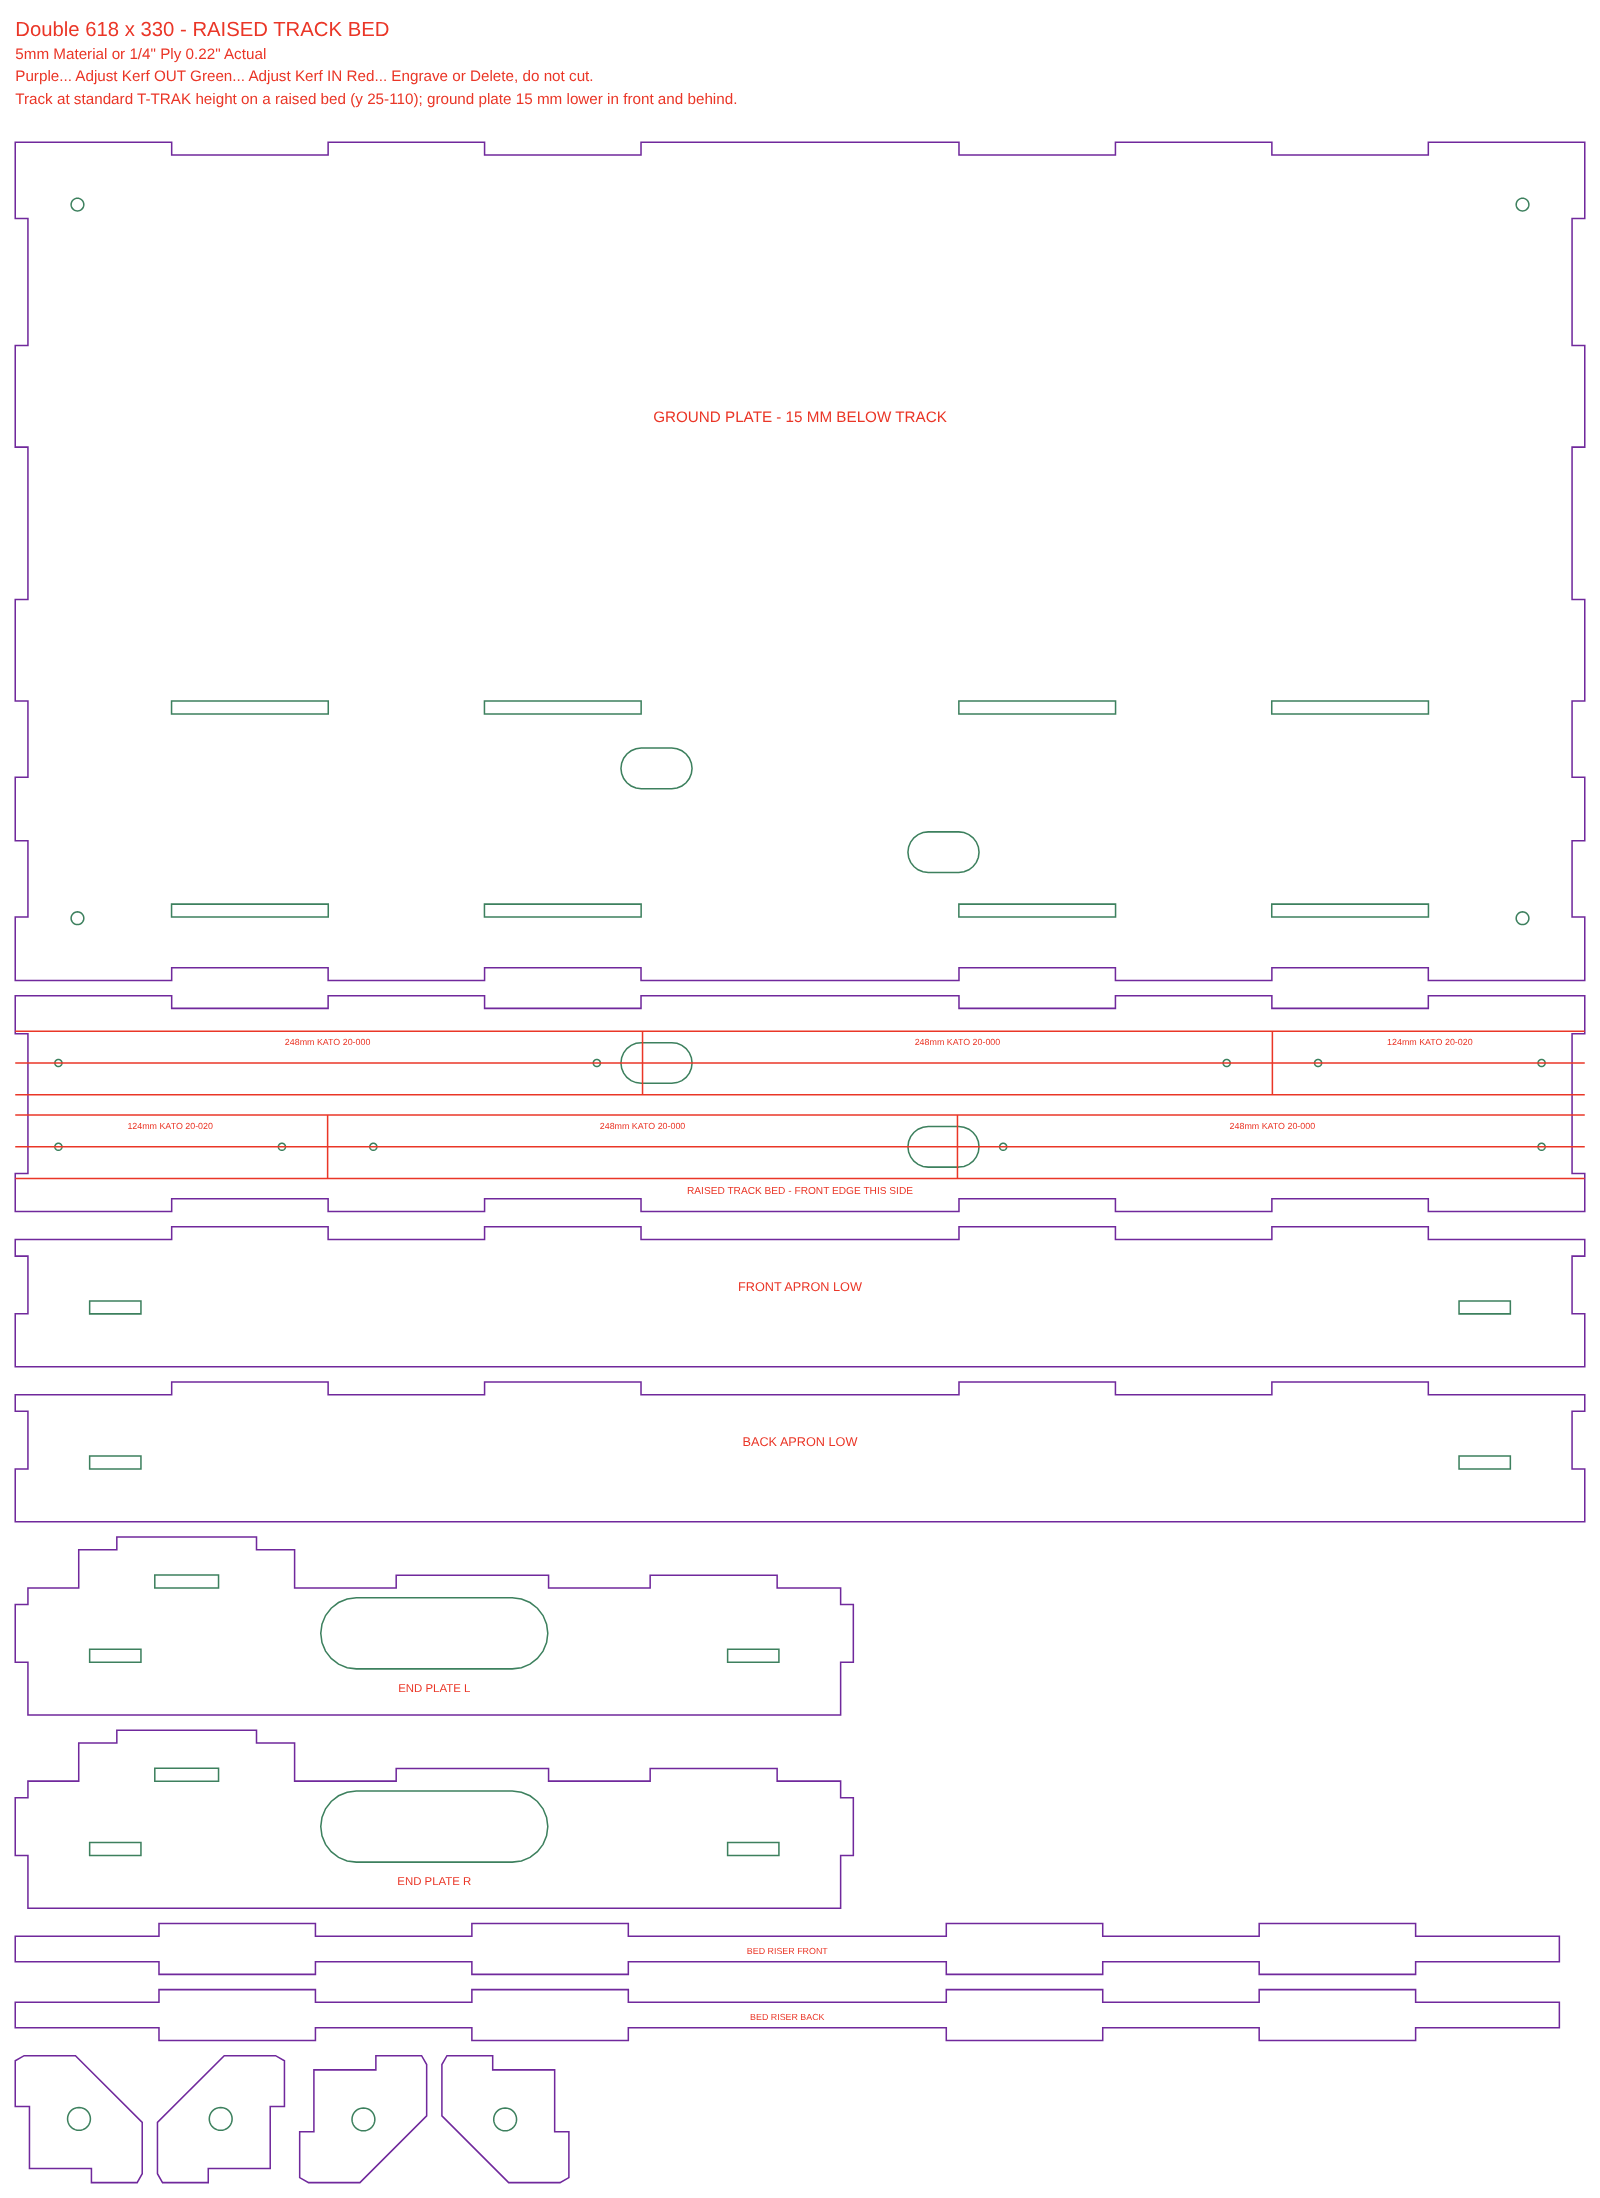
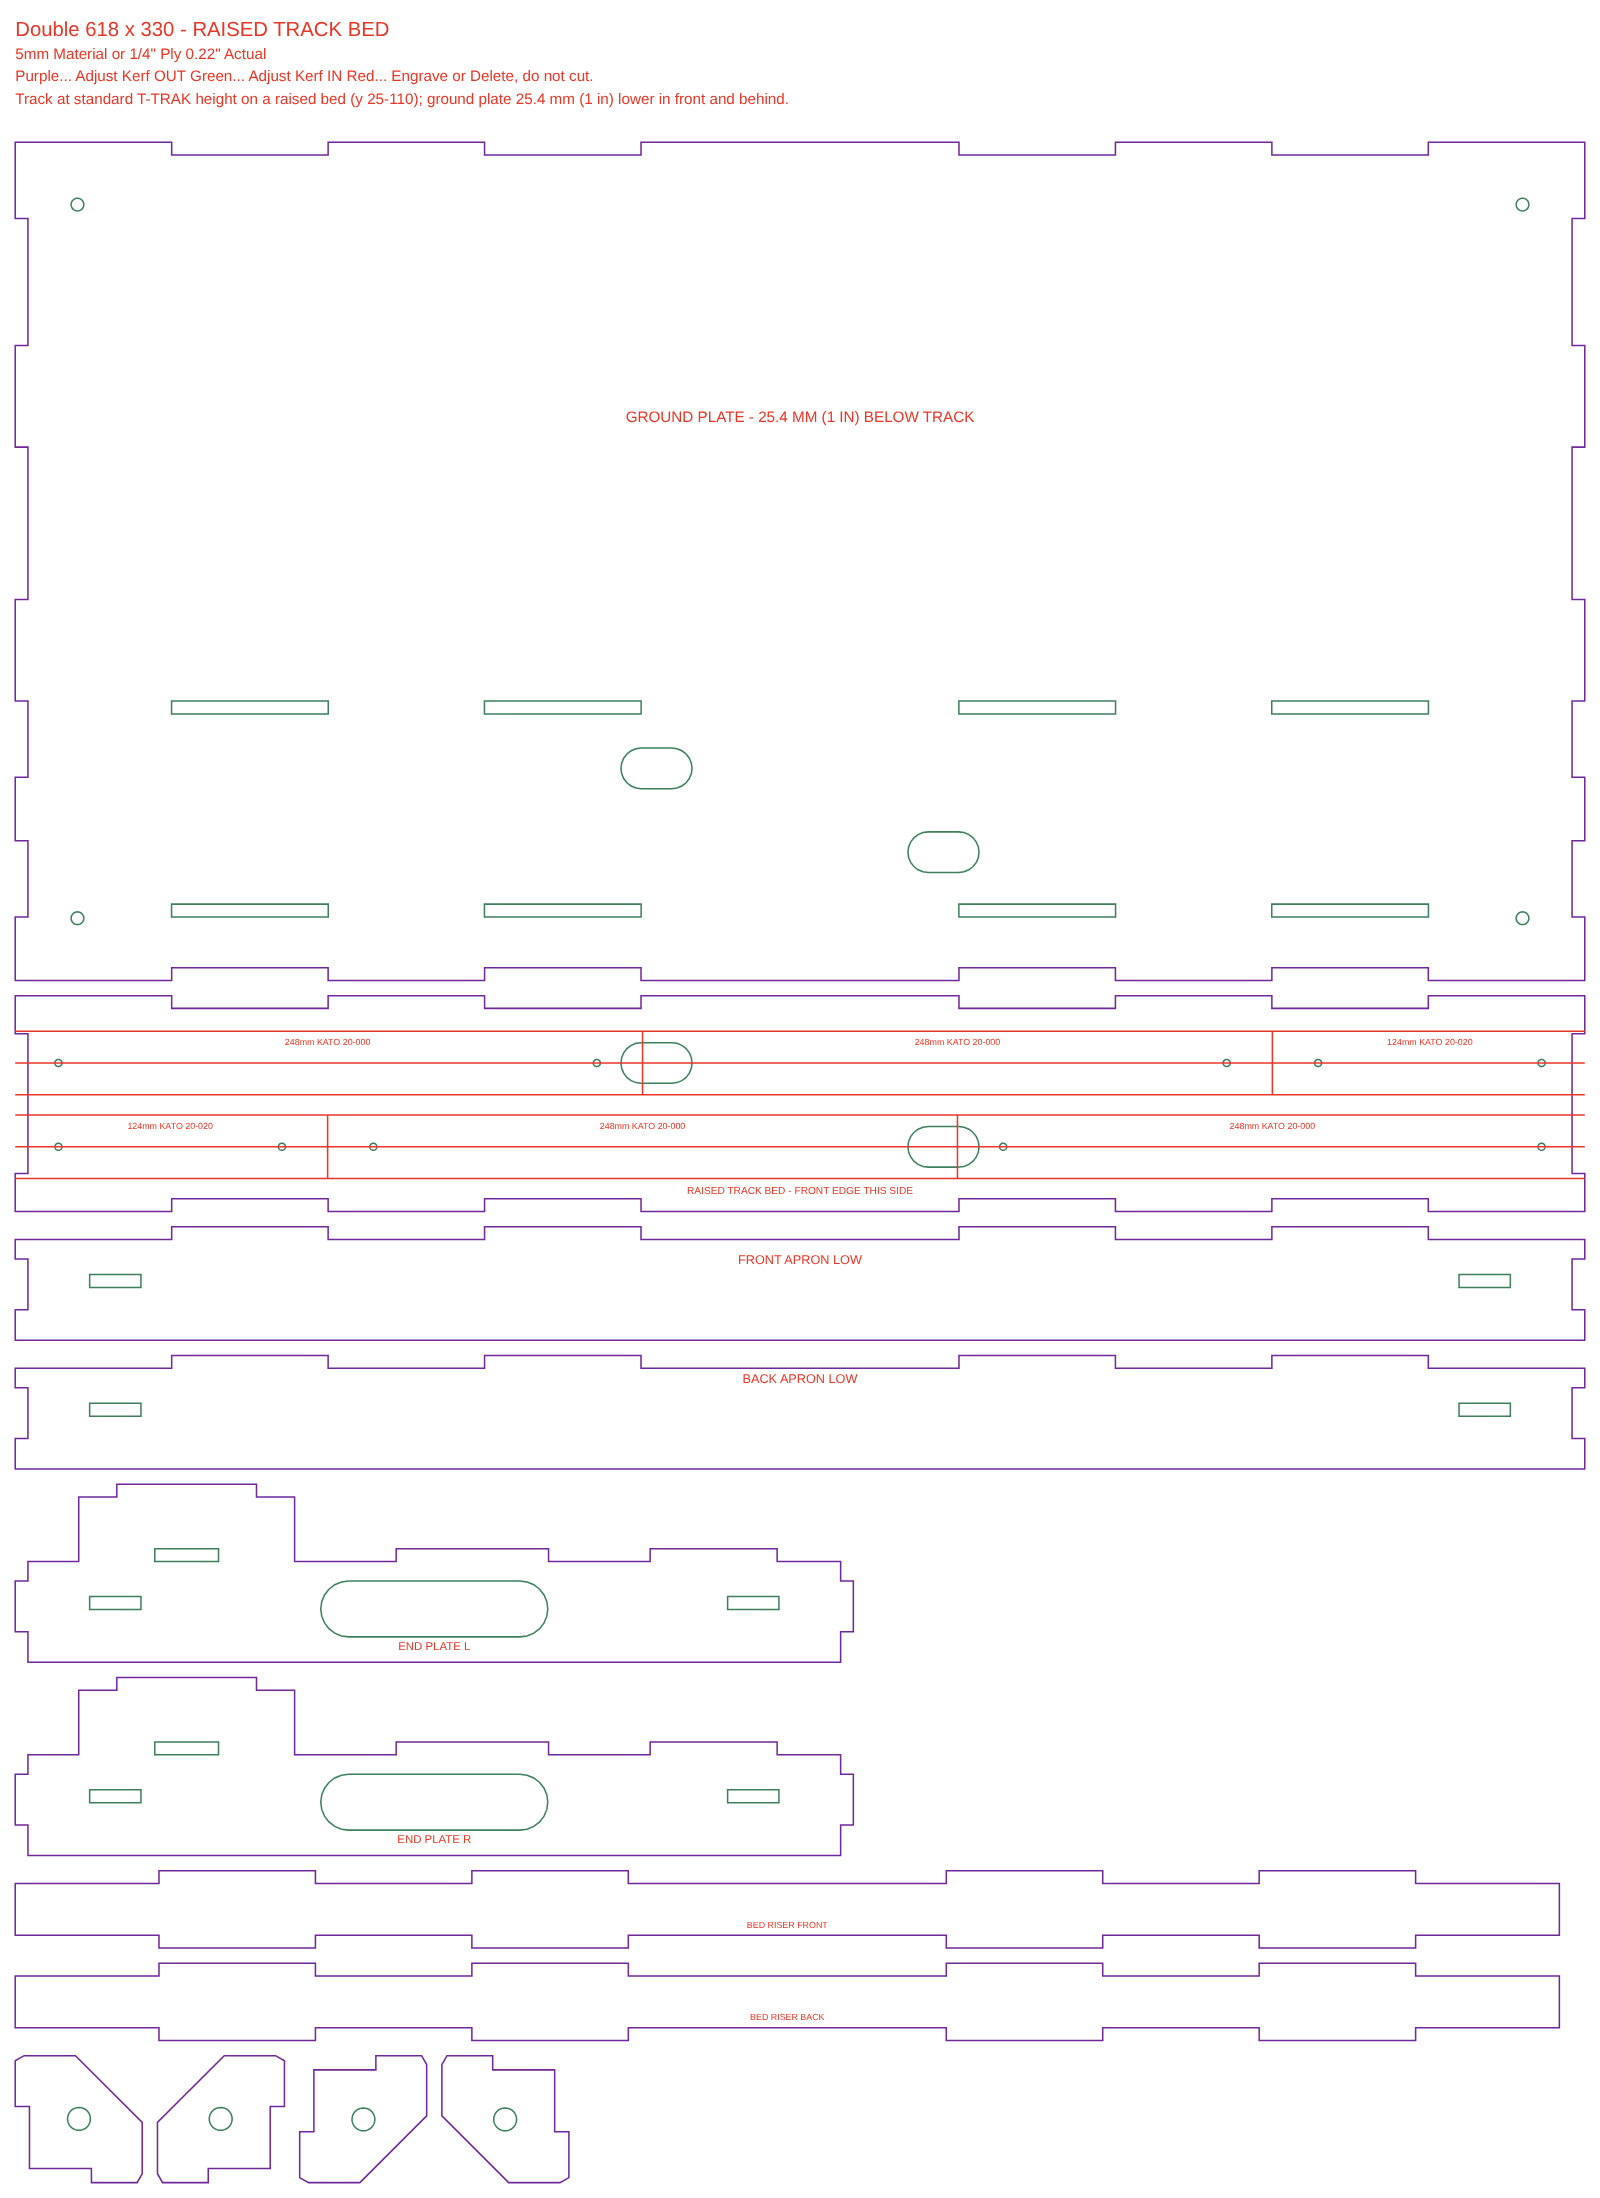
Raised-bed doubles: 1 inch ground drop, lower corner tabs and wiring hole to suit
Claude-Session: https://claude.ai/code/session_01Tymp3aApFR6S9qU1n6KCKc

diff --git a/ttrak_laser.py b/ttrak_laser.py
@@ -41,7 +41,9 @@ RB = 12.5                   # half width of Unitrack roadbed
 SCREW = 2.8                 # track screw/nail holes, 18 mm in from each track section end
 
 # raised-bed doubles
-DROP = 15.0                 # ground level below the top of the track bed
+DROP = 25.4                 # ground level below the top of the track bed (1 inch)
+LOW_SIDE_TAB = (12.0, 32.0) # corner tab band on the raised modules (walls are only ~40 mm tall)
+LOW_WIRE = (10.0, 32.0)     # end plate wiring hole band on the raised modules
 STRIP = (25.0, 110.0)       # raised bed front/back edge (version 1); version 2 runs from 0
 STRIP_TAB = (40.0, 95.0)    # end plate tab into the raised track plate
 GROUND_TAB = (55.0, 80.0)   # ground plate tab through the end plate, under the raised bed
@@ -111,11 +113,12 @@ def stadium_at(cx, cy, length, width, ang, n=12):
 # ----------------------------------------------------------------------------
 # Walls
 # ----------------------------------------------------------------------------
-def apron(name, y_off, L, H, top_tabs, slots=(), label_v=None):
+def apron(name, y_off, L, H, top_tabs, slots=(), label_v=None, side_tab=SIDE_TAB):
     """Long side wall, 0..L, table to H-T with top tabs up to H; template corner notches."""
-    p = [(0, 0), (L, 0), (L, SIDE_TAB[0]), (L - T, SIDE_TAB[0]), (L - T, SIDE_TAB[1]), (L, SIDE_TAB[1])]
+    st = side_tab
+    p = [(0, 0), (L, 0), (L, st[0]), (L - T, st[0]), (L - T, st[1]), (L, st[1])]
     edge(p, "u", H - T, L, 0, [(a, b, T) for a, b in top_tabs], +1)
-    p += [(0, SIDE_TAB[1]), (T, SIDE_TAB[1]), (T, SIDE_TAB[0]), (0, SIDE_TAB[0])]
+    p += [(0, st[1]), (T, st[1]), (T, st[0]), (0, st[0])]
     holes = [srect(BRK_SLOT[0], BRK_SLOT_Z[0] + 0.05, BRK_SLOT[1], BRK_SLOT_Z[1] - 0.05),
              srect(L - BRK_SLOT[1], BRK_SLOT_Z[0] + 0.05, L - BRK_SLOT[0], BRK_SLOT_Z[1] - 0.05)]
     holes += list(slots)
@@ -123,18 +126,19 @@ def apron(name, y_off, L, H, top_tabs, slots=(), label_v=None):
     return Panel(name, p, "XZ", y_off, holes, labels=[lab])
 
 
-def end_plate(name, x_off, D, top_profile, slots=(), wire=True):
+def end_plate(name, x_off, D, top_profile, slots=(), wire=WIRE, side_tab=SIDE_TAB):
     """End wall between the aprons, 0..D with corner tabs. top_profile = points from u=D-T
     back to u=T along the top (including any tabs)."""
-    p = [(T, 0), (D - T, 0), (D - T, SIDE_TAB[0]), (D, SIDE_TAB[0]), (D, SIDE_TAB[1]), (D - T, SIDE_TAB[1])]
+    st = side_tab
+    p = [(T, 0), (D - T, 0), (D - T, st[0]), (D, st[0]), (D, st[1]), (D - T, st[1])]
     p += top_profile
-    p += [(T, SIDE_TAB[1]), (0, SIDE_TAB[1]), (0, SIDE_TAB[0]), (T, SIDE_TAB[0])]
+    p += [(T, st[1]), (0, st[1]), (0, st[0]), (T, st[0])]
     holes = [srect(BRK_SLOT[0], BRK_SLOT_Z[0] + 0.05, BRK_SLOT[1], BRK_SLOT_Z[1] - 0.05),
              srect(D - BRK_SLOT[1], BRK_SLOT_Z[0] + 0.05, D - BRK_SLOT[0], BRK_SLOT_Z[1] - 0.05)]
     if wire:
-        holes.append(stadium(D / 2 - 44.7, D / 2 + 44.7, WIRE[0], WIRE[1]))
+        holes.append(stadium(D / 2 - 44.7, D / 2 + 44.7, wire[0], wire[1]))
     holes += list(slots)
-    return Panel(name, p, "YZ", x_off, holes, labels=[(D / 2, 9, name.upper().replace("_", " "), 4.5)])
+    return Panel(name, p, "YZ", x_off, holes, labels=[(D / 2, min(9, wire[0] - 5), name.upper().replace("_", " "), 4.5)])
 
 
 def flat_end_top(D, tabs, h=None):
@@ -337,7 +341,7 @@ def raised_module(to_edge):
     eng, th, tl = straight_tracks(L, [124, 248, 248], [248, 248, 124], 0.0)
     g_holes += [h for h in th if getattr(h, "feeder", False)]
     ground = Panel("%s_ground_plate" % tag, g, "XY", G - T, g_holes + g_slots,
-                   labels=[(L / 2, (y1 + D) / 2, "GROUND PLATE - %d MM BELOW TRACK" % DROP, 6)])
+                   labels=[(L / 2, (y1 + D) / 2, "GROUND PLATE - %.1f MM (1 IN) BELOW TRACK" % DROP, 6)])
 
     # --- raised track plate y0..y1
     t = []
@@ -361,14 +365,14 @@ def raised_module(to_edge):
     parts = [ground, track]
     if to_edge:
         fa_slots = [srect(a, G - T, b, G) for a, b in lt]
-        parts.append(apron("front_apron_full_height", 0.0, L, TOP, lt, fa_slots))
+        parts.append(apron("front_apron_full_height", 0.0, L, TOP, lt, fa_slots, side_tab=LOW_SIDE_TAB))
     else:
-        parts.append(apron("front_apron_low", 0.0, L, G, lt, label_v=30))
+        parts.append(apron("front_apron_low", 0.0, L, G, lt, label_v=30, side_tab=LOW_SIDE_TAB))
         parts.append(riser("bed_riser_front", y0))
     parts.append(riser("bed_riser_back", y1 - T))
-    parts.append(apron("back_apron_low", D - T, L, G, lt, label_v=30))
-    parts.append(end_plate("end_plate_L", 0.0, D, end_profile(), end_slots))
-    parts.append(end_plate("end_plate_R", L - T, D, end_profile(), end_slots))
+    parts.append(apron("back_apron_low", D - T, L, G, lt, label_v=34, side_tab=LOW_SIDE_TAB))
+    for nm, xo in (("end_plate_L", 0.0), ("end_plate_R", L - T)):
+        parts.append(end_plate(nm, xo, D, end_profile(), end_slots, LOW_WIRE, LOW_SIDE_TAB))
     return parts + brackets(L, D), (L, D)
 
 
@@ -443,10 +447,10 @@ MODULES = [
       "The long edge with the 1 mm track overhang butts against the ends of the two module rows."]),
     ("double_raised_bed_618x330", lambda: raised_module(False),
      "Double 618 x 330 - RAISED TRACK BED",
-     ["Track at standard T-TRAK height on a raised bed (y 25-110); ground plate %d mm lower in front and behind." % DROP]),
+     ["Track at standard T-TRAK height on a raised bed (y 25-110); ground plate %.1f mm (1 in) lower in front and behind." % DROP]),
     ("double_raised_bed_to_edge_618x330", lambda: raised_module(True),
      "Double 618 x 330 - RAISED TRACK BED TO THE FRONT EDGE",
-     ["Raised bed runs from the front edge back to y 110; ground plate %d mm lower behind it." % DROP]),
+     ["Raised bed runs from the front edge back to y 110; ground plate %.1f mm (1 in) lower behind it." % DROP]),
     ("triple_928x330", triple_module,
      "Triple 928 x 330 - regular module (track 930 mm per line: 3 x 248 + 186)",
      ["Needs a laser bed of at least 940 x 342 mm for the top plate and aprons.",

diff --git a/README.md b/README.md
@@ -191,12 +191,12 @@ Run `python ttrak_laser.py` to write the SVGs and preview PNGs to `ttrak_output/
 | File | Module | Notes |
 |---|---|---|
 | `endcap_one_piece_732x365.svg` | End cap, 180° loop | **One** 732 x 365 top plate and one box, replacing the two halves in the End Cap template. Kato R315 (outer, joins the front tracks) + R282 (inner, joins the rear tracks), 4 x 45° each, 1 mm track overhang on the joining edge. A centre brace replaces the shared middle plate. Needs a laser bed of at least 744 x 377 mm |
-| `double_raised_bed_618x330.svg` | Double, raised track bed | The track stays at standard T-TRAK height on a raised bed (y 25–110 mm). The ground plate is 15 mm lower in front of and behind the bed (embankment look). Two risers under the bed edges |
+| `double_raised_bed_618x330.svg` | Double, raised track bed | The track stays at standard T-TRAK height on a raised bed (y 25–110 mm). The ground plate is 1 inch (25.4 mm) lower in front of and behind the bed (embankment look). The corner tabs (12–32 mm above the table) and the wiring hole are lower than on the template, to fit the shorter walls Two risers under the bed edges |
 | `double_raised_bed_to_edge_618x330.svg` | Double, raised bed to the front edge | Same, but the bed runs out to the front edge (full-height front apron). The ground is only lowered behind it |
 | `triple_928x330.svg` | Triple, regular | 928 x 330. Track 930 mm per line (3 x 248 + 186, joints staggered). Two cross braces at the thirds. Needs a laser bed of at least 940 x 342 mm |
 
 - The track plates have the roadbed outlines engraved, 2.8 mm screw holes 18 mm in from each section end, and one 16 mm
   feeder hole per track. On the raised modules the feeder holes go through the ground plate as well.
-- You can change `DROP` (how far the ground sits below the track, 15 mm by default) and `STRIP` (the front and back edges of the raised bed) at the top of the script.
+- You can change `DROP` (how far the ground sits below the track, 25.4 mm (1 inch) by default) and `STRIP` (the front and back edges of the raised bed) at the top of the script.
 - All four modules were checked in 3D (`--check`): no parts overlap, each assembles to its full footprint x 70.09 mm,
   and the outside faces show no open notches.
